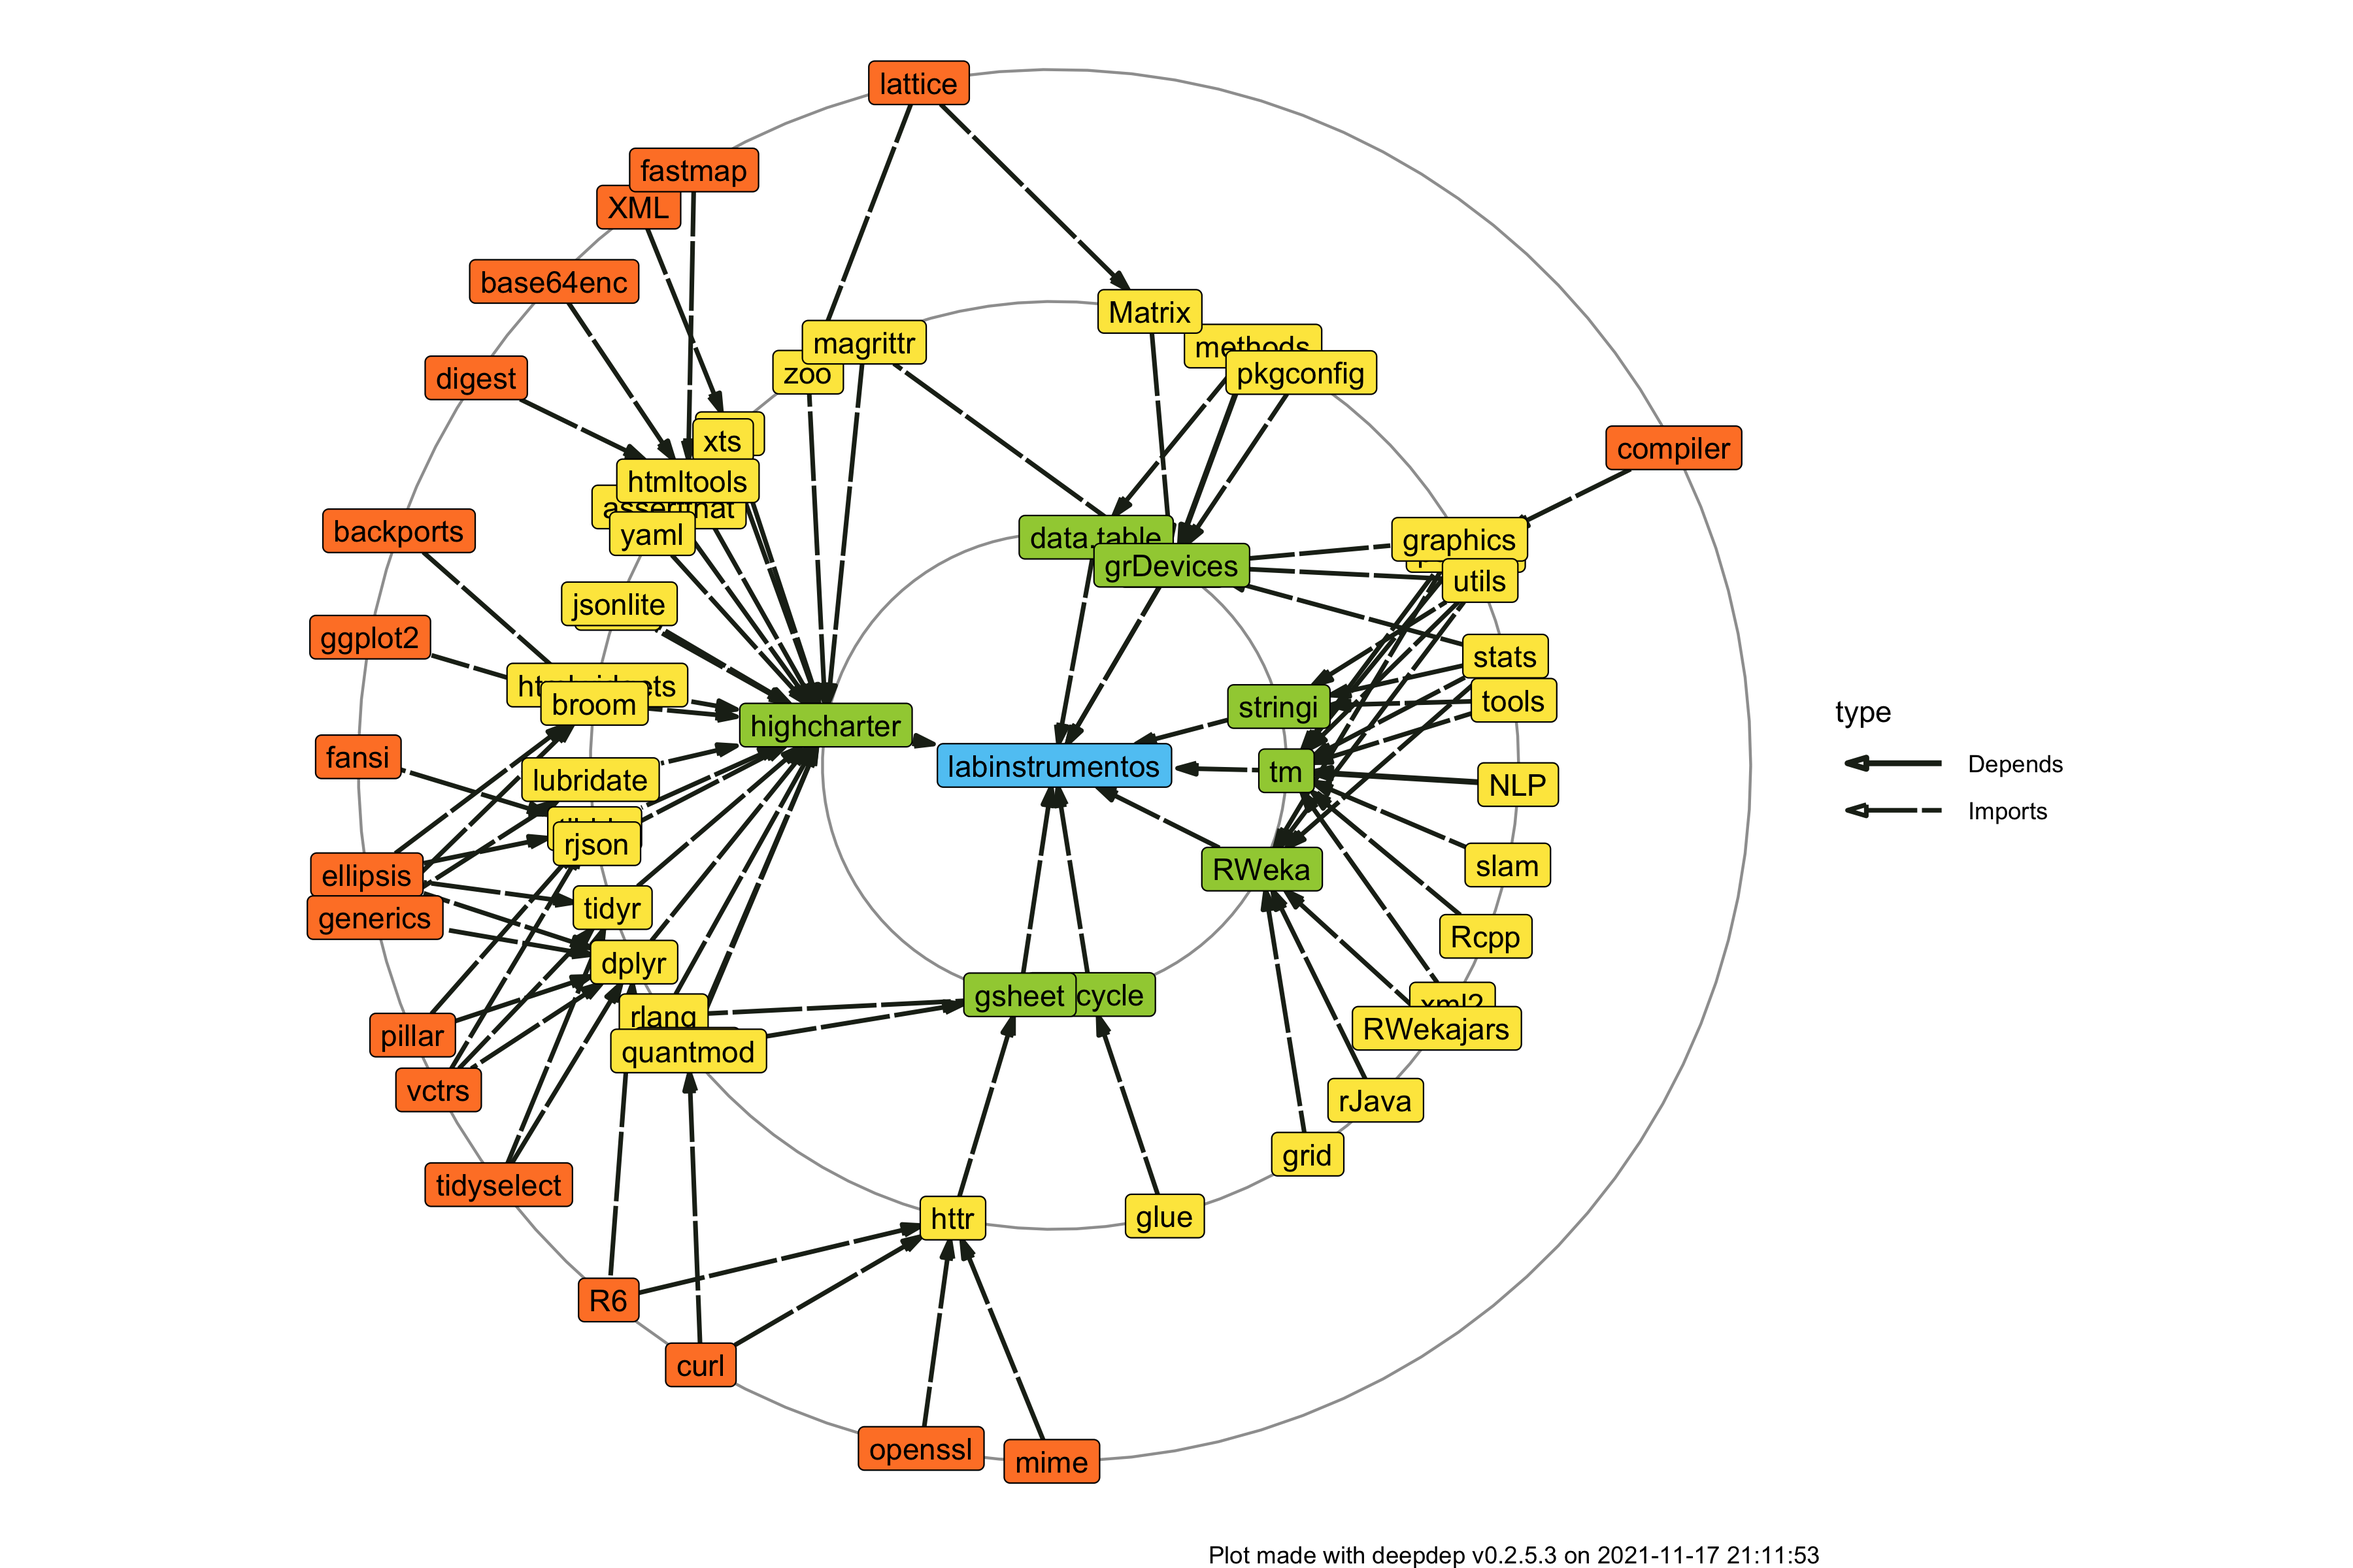
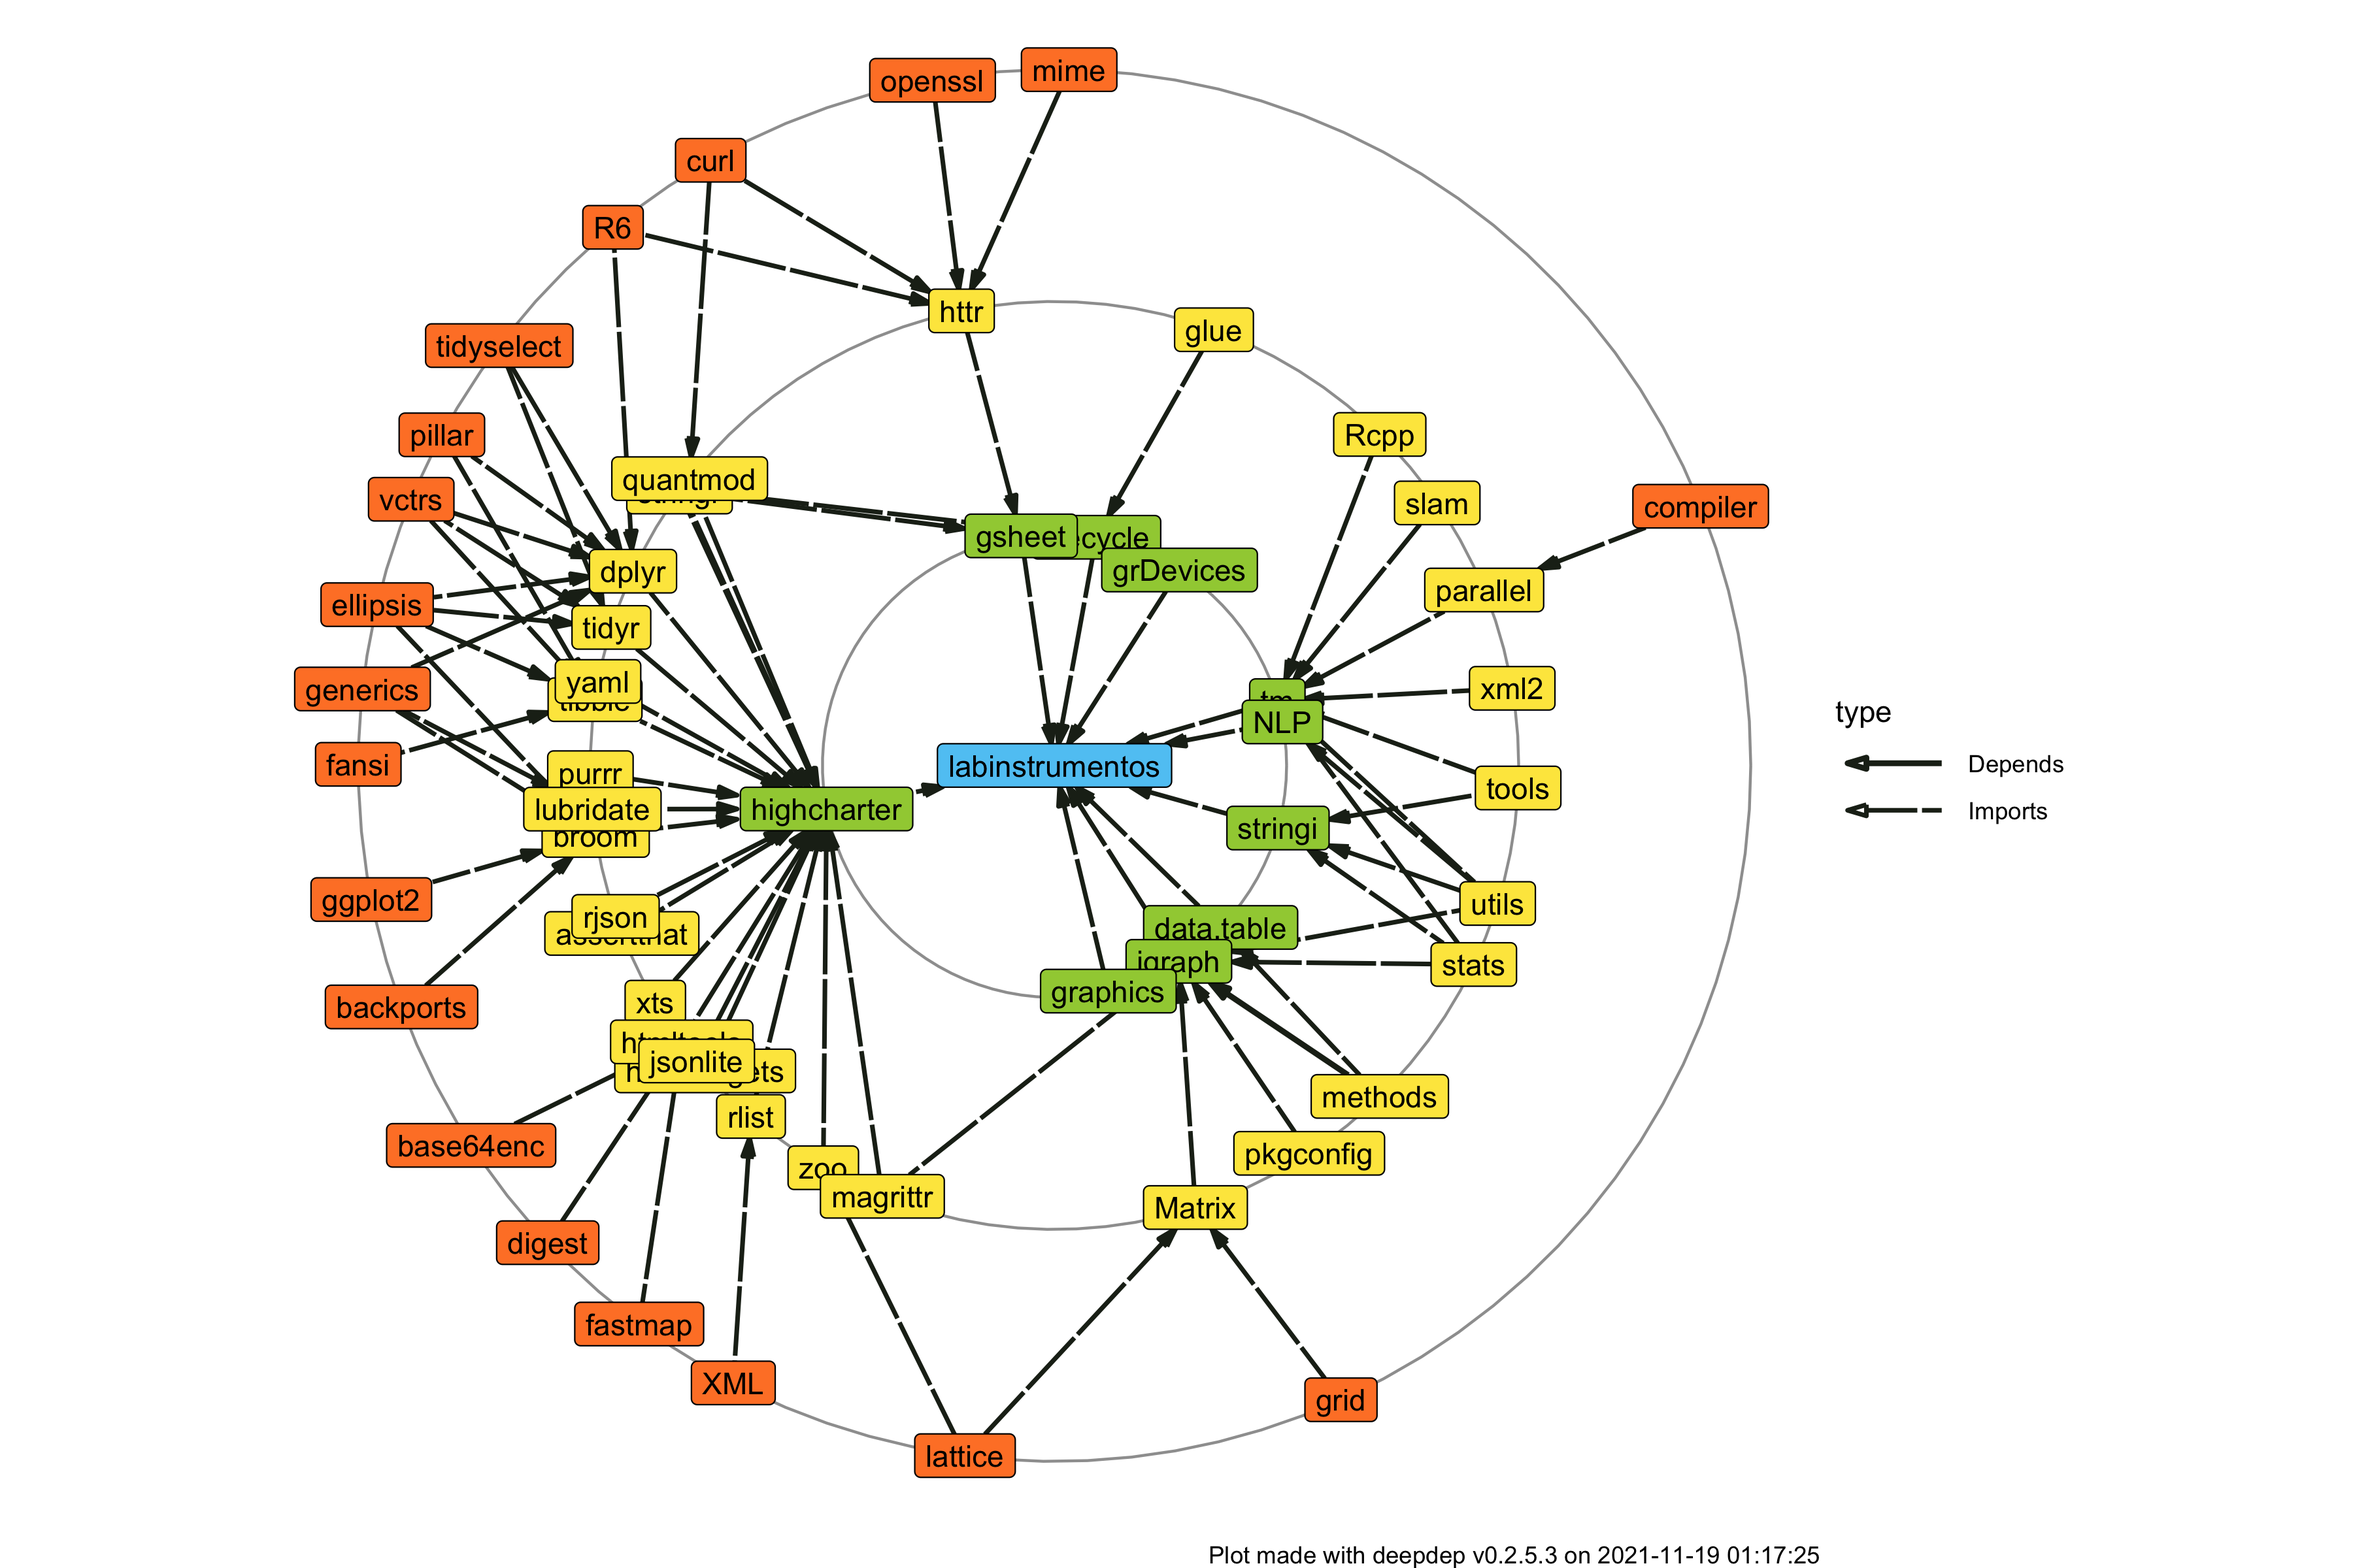
Versión 0.0.0.9012
Esta versión acarrea varios cambios:
- Uso de R-CMD-check estricto (tipo tidyverse)
- Dependencias más estables
- Mejora de usabilidad de las funciones

Para más detalles ver NEWS.md

diff --git a/README.md b/README.md
@@ -57,7 +57,7 @@ Lo que te dará el siguiente resultado.
 
       Matías Castillo Aguilar and Carlos Morales Quiroz (2021).
       labinstrumentos: Datos del Laboratorio de Instrumentos. R package
-      version 0.0.0.9011. https://github.com/SEREMICTCI/labinstrumentos
+      version 0.0.0.9012. https://github.com/SEREMICTCI/labinstrumentos
 
     A BibTeX entry for LaTeX users is
 
@@ -65,6 +65,6 @@ Lo que te dará el siguiente resultado.
         title = {labinstrumentos: Datos del Laboratorio de Instrumentos},
         author = {Matías {Castillo Aguilar} and Carlos {Morales Quiroz}},
         year = {2021},
-        note = {R package version 0.0.0.9011},
+        note = {R package version 0.0.0.9012},
         url = {https://github.com/SEREMICTCI/labinstrumentos},
       }

diff --git a/NEWS.md b/NEWS.md
@@ -1,3 +1,8 @@
+# labinstrumentos 0.0.0.9012
+
+* Arreglado error de comprobación de errores en `crear_sankey()`: Ahora el error con n_words < 0 entrega el mensaje de error apropiado.
+* Cambio de dependencias: Se eliminó las dependencias de `RWeka`, usando `NLP` en cambio. Esto para mejorar la compatibilidad multiplataforma y solucionar el problema del R-CMD-check ocasionado por la subdependencia con `rJava`.
+
 # labinstrumentos 0.0.0.9011
 
 * Se crea función `obtener_datos()` para descargar los datos en su última versión desde el documento de hojas de Google, tratando los datos y devolviéndolos limpios. Eventualmente y cuando se tenga la versión definitiva de los datos, se procederá por una alternativa local en el paquete.
